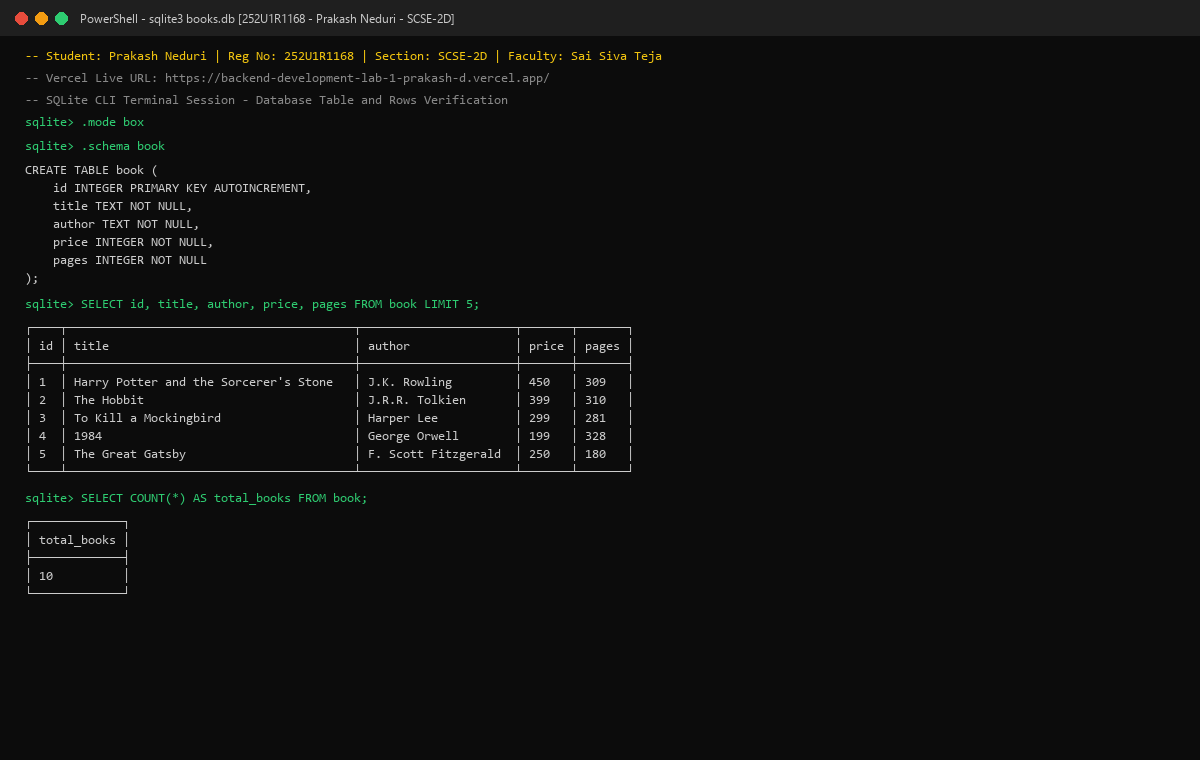
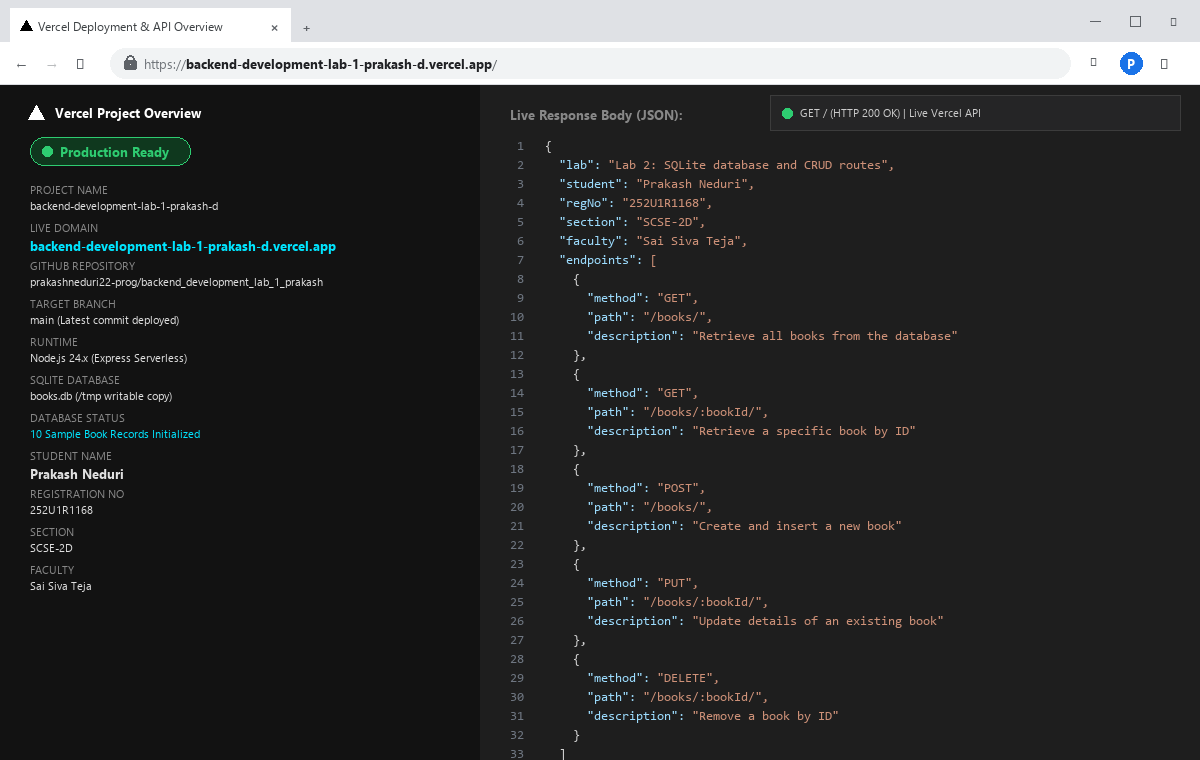
docs(lab-02): update 7th screenshot to Vercel browser deployment overview and root API

diff --git a/lab-02/README.md b/lab-02/README.md
@@ -244,8 +244,10 @@ GET /books/11/ -> Status: 404 (Not Found)
 
 ---
 
-### 7. SQLite CLI Verification
-- **Description:** SQLite command line terminal confirming table creation, schema structure, and row verification.
+### 7. Vercel Deployment & Root API Verification (`GET /`)
+- **Endpoint:** `GET https://backend-development-lab-1-prakash-d.vercel.app/` *(or `http://localhost:3000/`)*
+- **Status Code:** `200 OK`
+- **Description:** Chrome browser navigating to the live Vercel production deployment, showing project overview, SQLite database status, student details (`252U1R1168`), and full CRUD endpoints list.
 
 ![SQLite CLI Verification](screenshots/07_sqlite_cli_verification.png)
 
